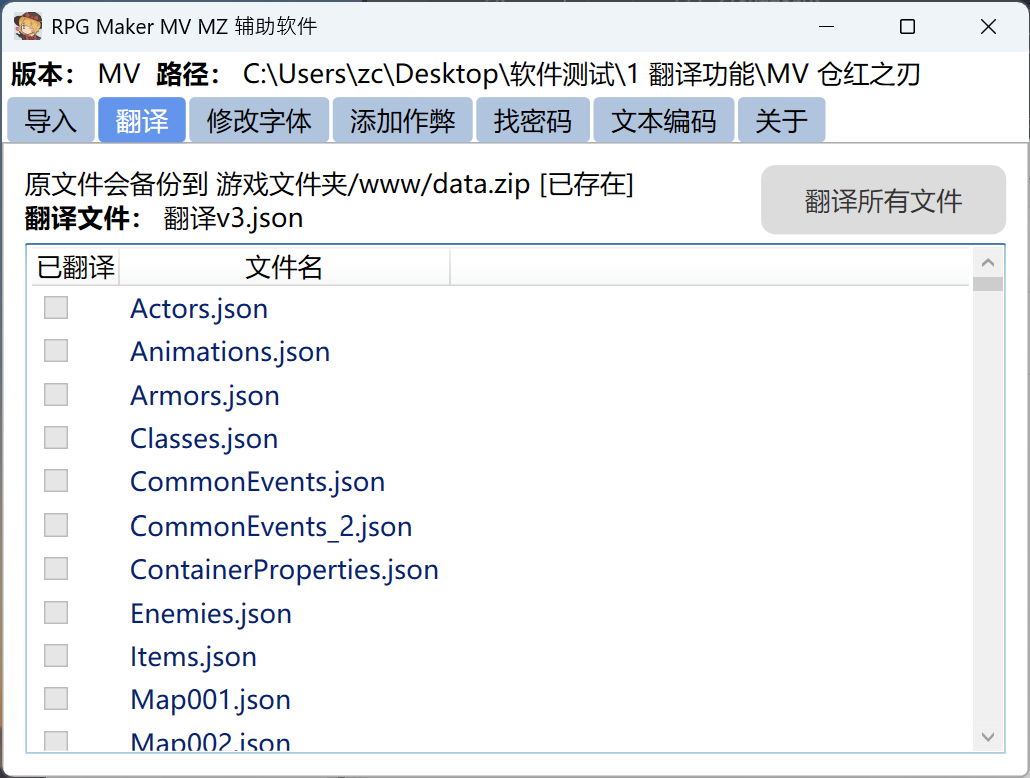
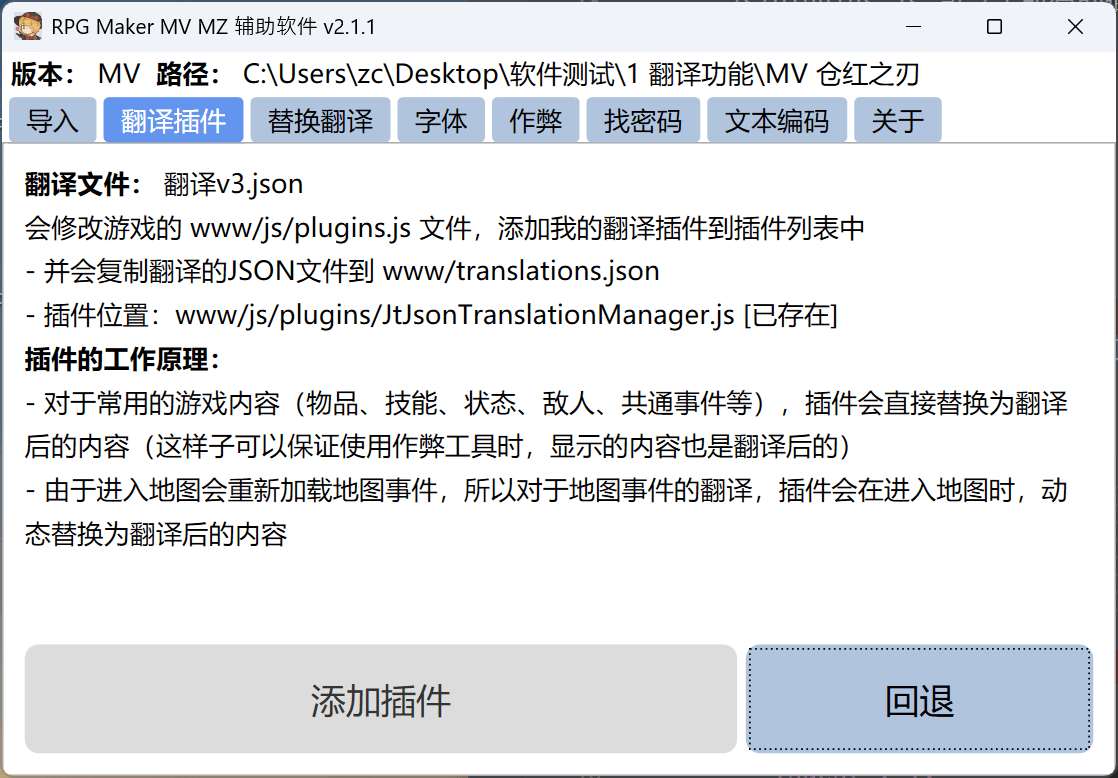
update README and version

diff --git a/RPGMakerUtils/MainWindow.xaml b/RPGMakerUtils/MainWindow.xaml
@@ -9,7 +9,7 @@
         xmlns:v="clr-namespace:RPGMakerUtils.Views"
         mc:Ignorable="d"
         FontSize="15" FontFamily="Microsoft YaHei"
-        Title="RPG Maker MV MZ 辅助软件 v2.1.0"
+        Title="RPG Maker MV MZ 辅助软件 v2.1.1"
         DragEnter="Window_DragEnter" DragOver="Window_DragOver" Drop="Window_Drop"
         AllowDrop="True"
         MinHeight="450" MinWidth="600" Height="450" Width="650">
@@ -40,15 +40,15 @@
                 <v:TranslationPluginUserControl/>
             </TabItem>
 
-            <TabItem Header="翻译">
+            <TabItem Header="替换翻译">
                 <v:TranslateUserControl/>
             </TabItem>
 
-            <TabItem Header="修改字体">
+            <TabItem Header="字体">
                 <v:EditFontUserControl/>
             </TabItem>
 
-            <TabItem Header="添加作弊">
+            <TabItem Header="作弊">
                 <v:AddCheatUserControl/>
             </TabItem>
 
@@ -69,7 +69,7 @@
                     <Setter Property="Template">
                         <Setter.Value>
                             <ControlTemplate TargetType="TabItem">
-                                <Border Name="Border" Background="LightGray" Padding="10,3" CornerRadius="3" Margin="1,0">
+                                <Border Name="Border" Background="LightGray" Padding="10,3" CornerRadius="3" Margin="2,0">
                                     <ContentPresenter ContentSource="Header" HorizontalAlignment="Center" VerticalAlignment="Center"/>
                                 </Border>
                                 <ControlTemplate.Triggers>

diff --git a/README.md b/README.md
@@ -2,11 +2,13 @@
 
 本版本使用 .NET Framework 4.8 编写，支持 RPG Maker MV 和 RPG Maker MZ 的游戏。
 
-[B站视频](https://www.bilibili.com/video/BV1hSJizWEkz/)/[YouTube](https://www.youtube.com/watch?v=W_4BV8pr-iw)： 使用方法与一些代码逻辑
+有可能会被杀毒软件误报为病毒，请自行判断是否下载使用。
 
 ## 功能
 
-1. 加载 MTools 的翻译 json 文件，并修改 data/*json 文件 和 js/plugins.js 文件
+1. 加载 MTools 的翻译 json 文件，
+   1. 翻译插件：加载我的翻译插件，并解析json文件，保存到 `www/translations.json`
+   2. 替换翻译：修改 `data/*json` 文件 和 `js/plugins.js` 文件
 2. 修改字体 （复制系统字体到 www/Fonts，并修改CSS）
 3. 添加作弊，使用的是 [paramonos/RPG-Maker-MV-MZ-Cheat-UI-Plugin](https://github.com/paramonos/RPG-Maker-MV-MZ-Cheat-UI-Plugin) 的代码
 4. 找游戏的宝箱密码
@@ -24,6 +26,24 @@
 
 # 原理
 
+## 翻译插件原理
+
+- 对于常用的、只加载一次的字段，直接在游戏加载时替换
+- 对于地图事件的对话和选项之类的，替换游戏的渲染方法
+- 并且将类命名为`TranslationManager`，有些插件会调用这个类
+
+RPG Maker 的相关方法：
+
+- `Window_Command.prototype.addCommand` 添加选项
+- `Window_Message.prototype.startMessage` 对话之类的
+- `Window_Base.prototype.convertEscapeCharacters` 转义字符 (会被`Window_Base.prototype.drawTextEx`调用)
+  - `Window_Base.prototype.drawTextEx` 是很多插件会调用的方法
+  - `Window_Base.prototype.convertEscapeCharacters` 也会被某些插件调用
+
+## 替换翻译原理
+
+[B站视频](https://www.bilibili.com/video/BV1hSJizWEkz/)/[YouTube](https://www.youtube.com/watch?v=W_4BV8pr-iw)： 使用方法与一些代码逻辑
+
 - data/*json 包含了所有的游戏数据
 - js/plugins.js 包含了所有的插件配置
 
@@ -34,26 +54,24 @@
 - `<Object>.json` (`Actors.json`, `Armors.json`, `Classes.json`, `Enemies.json`, `Items.json`, `MapInfos.json`, `Skills.json`, `States.json`, `Weapons.json`)
   - `name`, `description`, `profile` and some `note`
 - `events.json` (`MapXXX.json`， `CommonEvents.json`)
-  - 对话、背景和选项 `code`: `101`，`401`, `102`，`402`, `405` 翻译所有 `parameters`
+  - 对话、背景和选项 `code`: `101`，`401`, `102`，`402`, `405` 翻译所有 `parameters` 中的字符串
   - 插件编码 `code`: `356` 和 `357` 使用白名单进行翻译
 - `js/plugins.js`
   - 通过白名单进行翻译
 
+### 插件代码的例子
+
 ```json
-// 356 example
 {
     "code": 356,
     "indent": 1,
-    // D_TEXT is the plugin name
     "parameters": ["D_TEXT こんだけ注目集めといてSじゃなかったら・・・ 12"]
 }
 
-// 357 example
 {
   "code": 357,
   "indent": 0,
   "parameters": [
-    // DTextPicture is the plugin name
     "DTextPicture",
     "dText",
     "文字列ピクチャ準備",

diff --git a/CHANGELOG.md b/CHANGELOG.md
@@ -1,0 +1,25 @@
+# Version History
+
+## Version 2.1.1 RPG Maker Utils
+
+- 自己的翻译插件：`JtJsonTranslationManager.js`
+- 增加插件翻译功能
+- 增加了回退支持，可以撤销修改（翻译，字体，作弊）
+- 增强了翻译方法的性能
+- 增加了软件版本显示
+- 修复了一些bug
+
+## Version 2.0.0 RPG Maker Utils
+
+- 增加对 RPG Maker MZ 的支持
+- 加载 MTools 的翻译 json 文件，并替换翻译：修改 `data/*json` 文件 和 `js/plugins.js` 文件
+- 修改字体 （复制系统字体到 www/Fonts，并修改CSS）
+- 添加作弊，使用的是 [paramonos/RPG-Maker-MV-MZ-Cheat-UI-Plugin](https://github.com/paramonos/RPG-Maker-MV-MZ-Cheat-UI-Plugin)
+- 寻找游戏的宝箱密码
+- 文本编码修复
+
+## Version 1.0 寻找礼包码
+
+- WPF 应用
+- 根据关键词和密码长度，寻找游戏的礼包码
+  
